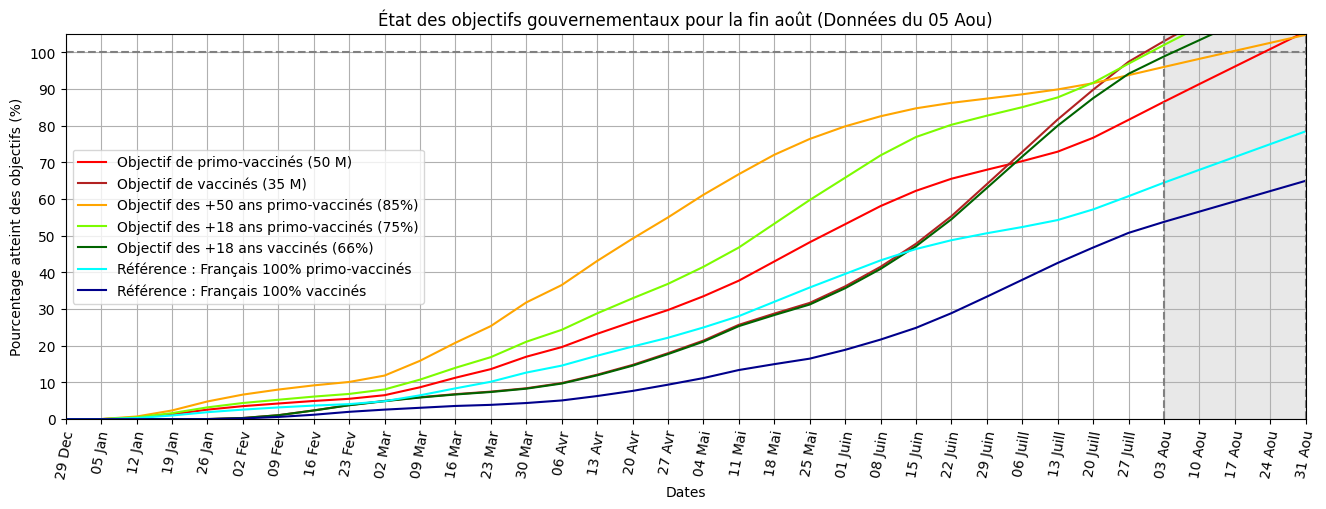
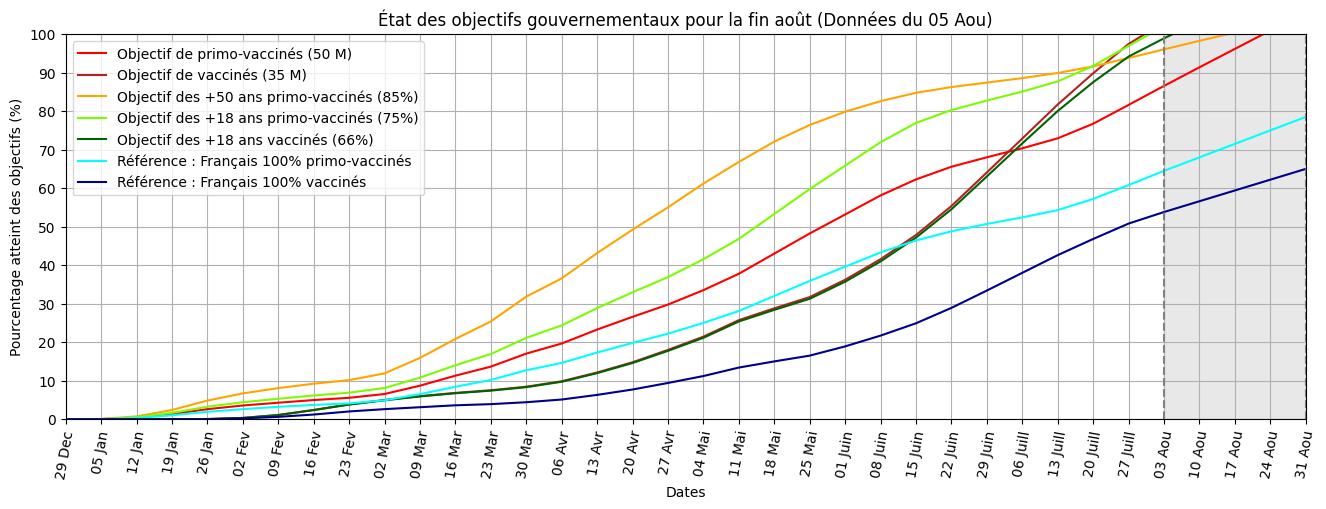
Axe y limité à 100% (et non plus à 105%)

Changed region(s): [[0.0309, 0.0589, 0.9894, 0.8251], [0.0309, 0.6483, 0.0618, 0.7073]]

diff --git a/main.py b/main.py
@@ -145,7 +145,7 @@ cumul_injections_completes_18_ans = 0
 cumul_primo_injections_50_ans = 0
     
 for donnees in table:
-    #Afin de faciliter la compréhension du code, les 4 colonnes sont assignés à des variables
+    #Afin de faciliter la compréhension du code, les 6 colonnes sont assignés à des variables
     age = donnees[0]
     date = donnees[1]
     primo_injections = donnees[2]
@@ -197,7 +197,6 @@ liste_dates_reduite = ecartDate(reduction(liste_dates))                         
 #Début de la contruction du graphique
 plt.figure(figsize = (16, 5))                                                   #Définit une dimension en 16/9
 plt.tick_params(axis = 'x', rotation = 80)                                      #Tourne les dates à 80° afin qu'elles restent visibles
-plt.axhline(y=100,color='gray',linestyle='--')                                  #Trace une ligne de pointillé verticale au niveau des 100%
 
 #Trace les courbes
 plt.plot(liste_dates_reduite, ecartDate(reduction(projectionObjectif(primo_injections_totales))), "red", label = f"Objectif de primo-vaccinés ({int(obj_1_dose/1000000)} M)")
@@ -214,8 +213,8 @@ if donnees_racourcies == False:
     plt.axvspan(liste_dates_reduite[position_date_limite//limite_ecart_jour], liste_dates[-1], alpha = 0.5, color = 'lightgray')
     plt.axvline(x = liste_dates[-1], color = 'gray', linestyle = '--')
 
-plt.yticks(np.arange(0, 105, 10))                                               #Limite le maximum en y à 105% et force la création de jalons de 10%
-plt.ylim(0, 105)                                                                #Force le tableau à n'afficher y qu'entre 0% et 105%
+plt.yticks(np.arange(0, 100.01, 10))                                            #Limite le maximum en y à 105% et force la création de jalons de 10%
+plt.ylim(0, 100.01)                                                             #Force le tableau à n'afficher y qu'entre 0% et 105%
 
 plt.grid()                                                                      #Ajout d'un grillage
 plt.legend()                                                                    #Affiche les légendes associés à la courbe correspondante
